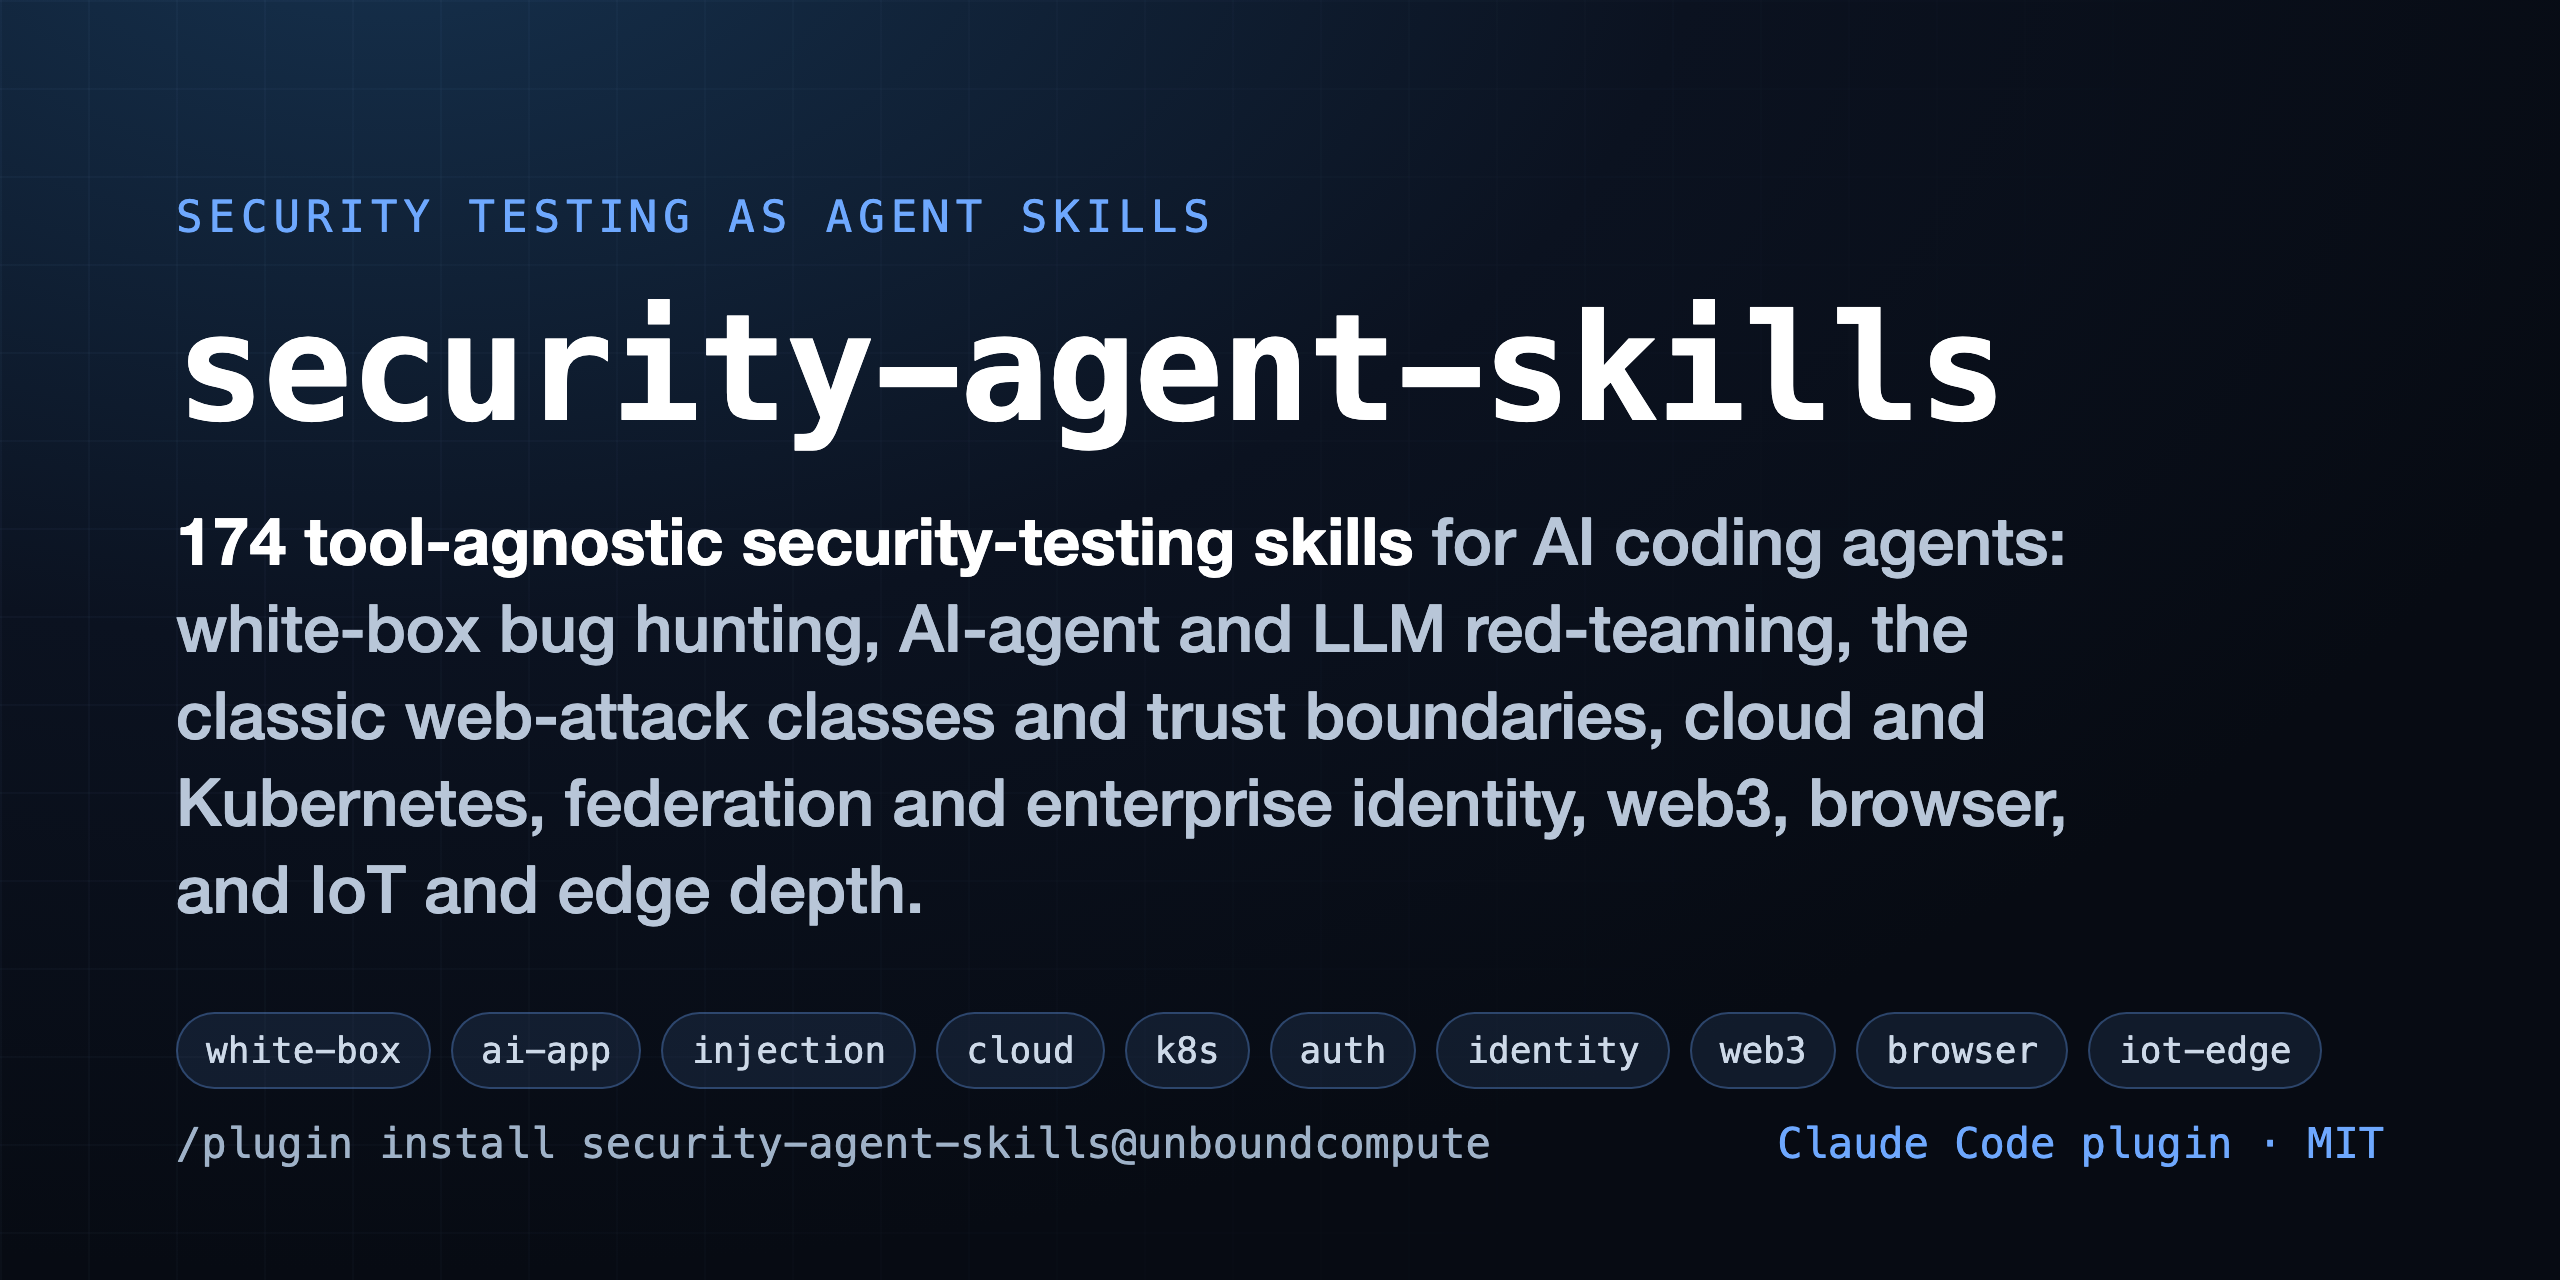
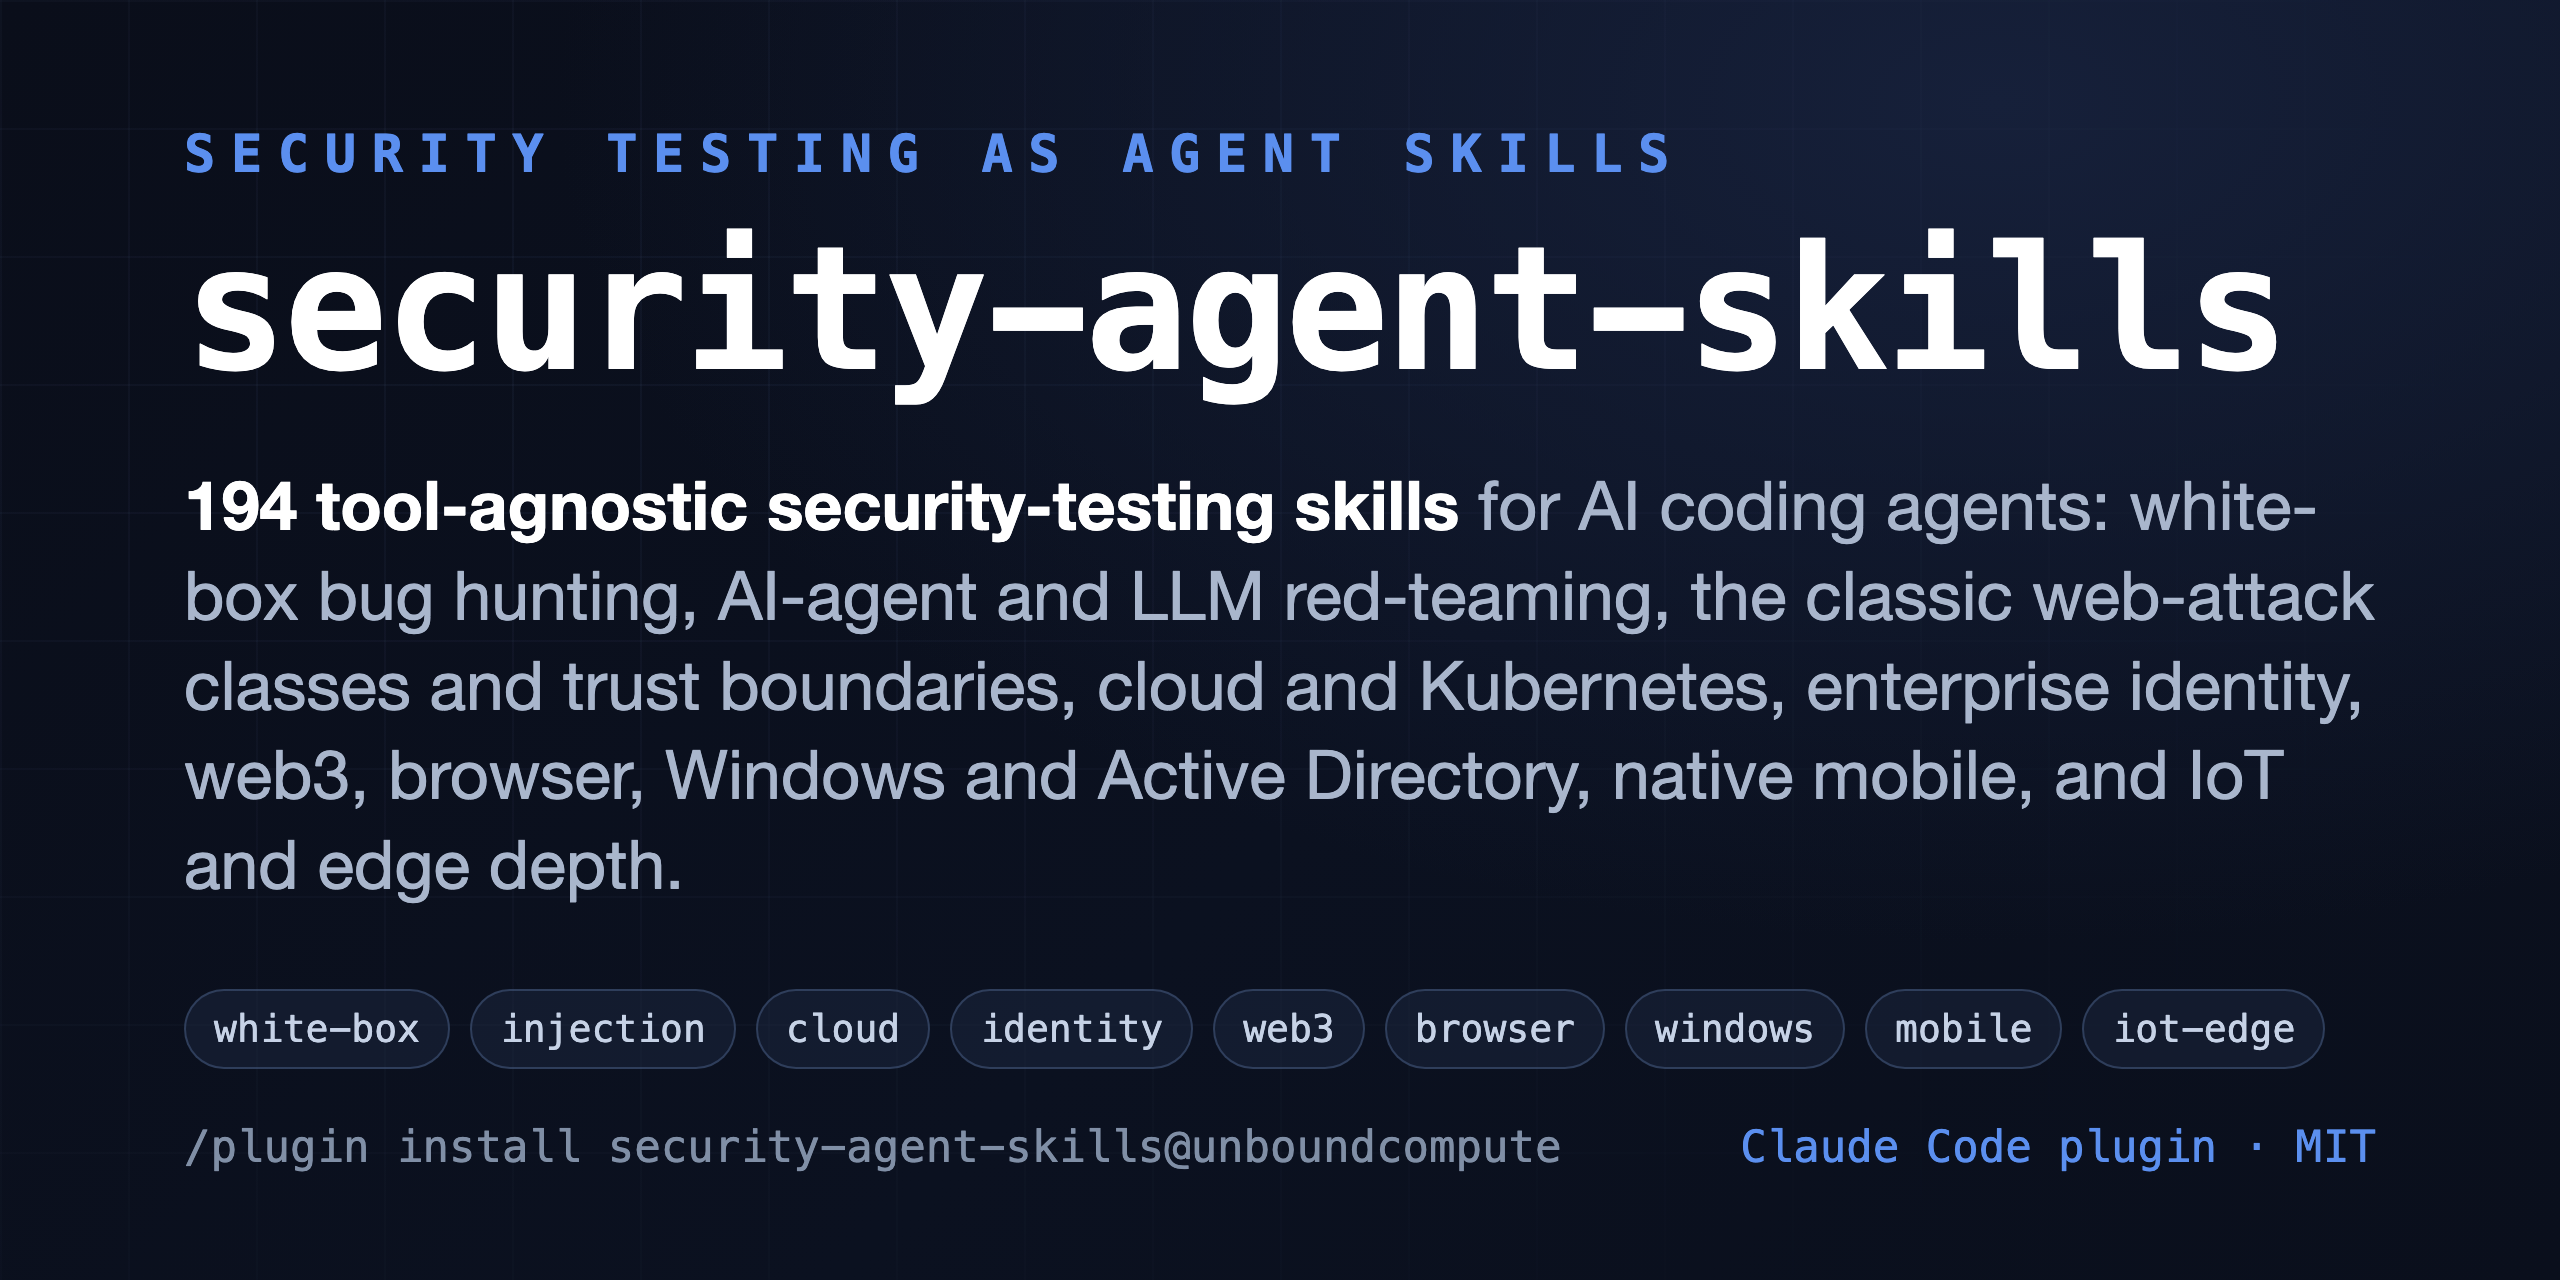
wire v0.15.0: bump to 194 skills, refresh README/CHANGELOG/plugin/marketplace
The catalog grows from 174 to 194 with two new lanes committed in the prior
commit: 10 Windows and Active Directory privilege-escalation and domain
identity skills, and 10 native iOS and Android app-security skills. This
commit wires the surrounding metadata to match.

README: skills badge and hero count 174 -> 194, hero clause extended to name
the Windows/AD and native-mobile coverage, 20 new table rows added under the
windows and mobile lanes, and two roadmap items checked off. CHANGELOG: new
0.15.0 entry describing both lanes in the established false-positive-killer
framing. plugin.json and marketplace.json: version 0.14.0 -> 0.15.0,
descriptions extended with the two new lanes, and 21 new keywords added.
social-preview.png regenerated to read 194 and carry windows and mobile chips.

Content-only change to catalog metadata; the 194 skill directories, the 194
README data rows, and the plugin/marketplace versions all agree, and both
JSON manifests parse.

diff --git a/README.md b/README.md
@@ -1,11 +1,11 @@
 # security-agent-skills
 
 ![license](https://img.shields.io/badge/license-MIT-blue?style=flat-square)
-![skills](https://img.shields.io/badge/skills-174-2ea44f?style=flat-square)
+![skills](https://img.shields.io/badge/skills-194-2ea44f?style=flat-square)
 ![Claude Code plugin](https://img.shields.io/badge/Claude%20Code-plugin-8A63D2?style=flat-square)
 ![method](https://img.shields.io/badge/method-tool--agnostic-orange?style=flat-square)
 
-**174 tool-agnostic security-testing skills for AI coding agents: white-box bug
+**194 tool-agnostic security-testing skills for AI coding agents: white-box bug
 hunting, AI-agent and LLM red-teaming, code-interpreter sandbox and
 model-inference-endpoint abuse, server-side injection and deserialization
 depth across SQL, NoSQL, LDAP, expression-language, and object streams, cloud
@@ -27,7 +27,13 @@ XSS, template and command injection, XXE, XPath, path traversal, formula and
 include injection, HTTP parameter pollution, and CRLF, the web trust-boundary
 classes across open redirect, CSRF, host-header and URL-parsing trust, cache
 deception, server-side rendering and SVG abuse, Unicode canonicalization bypass,
-and postMessage trust, defensive detection and logging, and appsec depth.**
+and postMessage trust, Windows and Active Directory privilege escalation and
+domain identity abuse across services, DLL search order, tokens and privileges,
+ADCS, directory ACLs, NTLM coercion and relay, group policy, and credentials,
+native iOS and Android app security across the keychain and data protection,
+WebView bridges, TLS pinning, biometrics, app groups, app bundles, mobile
+backends, intent redirection, tapjacking, and tamper resistance, defensive
+detection and logging, and appsec depth.**
 
 Agent skills that encode security-testing *methodology*: the reasoning, ordering,
 and adjudication discipline behind real black-box and white-box testing, written
@@ -257,6 +263,26 @@ tools at each step and emitting findings in the shared schema.
 | [hunting-server-side-rendering-and-svg-image-abuse](skills/hunting-server-side-rendering-and-svg-image-abuse) | web-trust | A server-side renderer fetching URLs, reading files, or running embedded script |
 | [hunting-unicode-normalization-and-canonicalization-bypass](skills/hunting-unicode-normalization-and-canonicalization-bypass) | web-trust | A check passing one form that a later transform turns dangerous at the sink |
 | [testing-postmessage-and-web-message-trust](skills/testing-postmessage-and-web-message-trust) | web-trust | A message handler acting without an exact origin and source check |
+| [hunting-windows-service-privilege-escalation](skills/hunting-windows-service-privilege-escalation) | windows | A standard-user write over a service binary, path, or config that SYSTEM then runs |
+| [hunting-windows-dll-hijacking-and-search-order](skills/hunting-windows-dll-hijacking-and-search-order) | windows | A privileged load-by-name resolving from a directory a standard user can write |
+| [auditing-windows-token-and-privilege-abuse](skills/auditing-windows-token-and-privilege-abuse) | windows | A held sensitive privilege or capturable token that lifts a foothold to a higher context |
+| [hunting-adcs-certificate-template-abuse](skills/hunting-adcs-certificate-template-abuse) | windows | A low-privileged enrollment for a certificate that authenticates as a privileged account |
+| [hunting-active-directory-acl-abuse-paths](skills/hunting-active-directory-acl-abuse-paths) | windows | A right over a privileged object that chains into control of the account |
+| [hunting-ntlm-coercion-and-relay](skills/hunting-ntlm-coercion-and-relay) | windows | A coerced authentication relayed to a service that does not bind the channel |
+| [auditing-group-policy-and-sysvol-trust](skills/auditing-group-policy-and-sysvol-trust) | windows | A writable policy, share file, or link that runs on every machine in scope |
+| [hunting-windows-credential-material-exposure](skills/hunting-windows-credential-material-exposure) | windows | A credential store or process readable by a principal below the intended one |
+| [auditing-windows-uac-and-integrity-boundaries](skills/auditing-windows-uac-and-integrity-boundaries) | windows | A medium-integrity foothold reaching a high-integrity context without genuine consent |
+| [auditing-windows-named-pipe-and-rpc-exposure](skills/auditing-windows-named-pipe-and-rpc-exposure) | windows | A reachable local interface performing a privileged action without authorizing the caller |
+| [hunting-ios-keychain-and-data-protection-gaps](skills/hunting-ios-keychain-and-data-protection-gaps) | mobile | A secret stored under a class readable while locked, in a backup, or after migration |
+| [auditing-mobile-webview-bridge-exposure](skills/auditing-mobile-webview-bridge-exposure) | mobile | Untrusted web content reaching a native bridge that acts with the app's privileges |
+| [hunting-mobile-tls-pinning-and-trust-gaps](skills/hunting-mobile-tls-pinning-and-trust-gaps) | mobile | A sensitive connection an intercepting network position can read or alter |
+| [auditing-mobile-biometric-and-local-auth-bypass](skills/auditing-mobile-biometric-and-local-auth-bypass) | mobile | A local-auth gate trusting a result rather than a key the authentication releases |
+| [auditing-ios-app-group-and-pasteboard-exposure](skills/auditing-ios-app-group-and-pasteboard-exposure) | mobile | A secret on a shared surface whose audience exceeds the app's own boundary |
+| [hunting-hybrid-app-bundle-and-config-exposure](skills/hunting-hybrid-app-bundle-and-config-exposure) | mobile | Live secrets, private endpoints, or privileged flags shipped inside the app bundle |
+| [auditing-mobile-backend-and-firebase-exposure](skills/auditing-mobile-backend-and-firebase-exposure) | mobile | A backend that trusts the app to enforce access and serves any direct client |
+| [auditing-android-intent-redirection-and-pendingintent](skills/auditing-android-intent-redirection-and-pendingintent) | mobile | A privileged component launching or sending an intent an untrusted caller steers |
+| [hunting-mobile-tapjacking-and-overlay-abuse](skills/hunting-mobile-tapjacking-and-overlay-abuse) | mobile | A sensitive screen approving a tap it cannot confirm the user saw or made |
+| [auditing-mobile-root-jailbreak-and-tamper-resistance](skills/auditing-mobile-root-jailbreak-and-tamper-resistance) | mobile | A security decision resting on a client integrity verdict a controlled device defeats |
 | [writing-vuln-reports](skills/writing-vuln-reports) | reporting | Confirmed finding to a reproducible writeup |
 
 Every finding, from any skill, is emitted in the shared
@@ -376,6 +402,17 @@ on a small target. The method does not depend on which.
       host-header and URL-parsing trust, web cache deception, server-side
       rendering and SVG abuse, Unicode canonicalization bypass, postMessage
       trust, and error-handling information exposure
+- [x] Windows and Active Directory privilege escalation: service, DLL
+      search-order, and named-pipe/RPC abuse, sensitive token and privilege
+      abuse, UAC and integrity boundaries, ADCS certificate-template abuse,
+      directory ACL abuse paths, NTLM coercion and relay, group-policy and
+      SYSVOL trust, and credential-material exposure
+- [x] Native mobile app security: iOS keychain and data-protection gaps,
+      WebView native-bridge exposure, TLS pinning and trust gaps, biometric
+      and local-auth bypass, app-group and pasteboard exposure, app-bundle and
+      config exposure, mobile-backend and Firebase exposure, Android intent
+      redirection and pending intents, tapjacking and overlay abuse, and
+      root/jailbreak and tamper resistance
 
 ## Design
 

diff --git a/CHANGELOG.md b/CHANGELOG.md
@@ -3,6 +3,51 @@
 Notable changes to this skill library. Versions follow the plugin version in
 `.claude-plugin/plugin.json`.
 
+## 0.15.0
+
+A wave across two under-served platform lanes, growing the library from 174 to 194
+skills in one batch of twenty: Windows and Active Directory privilege escalation,
+and native iOS and Android app security. The catalog had deep web, cloud, and
+identity coverage but little for the endpoint and the mobile app, the two places a
+real engagement spends much of its time. Each skill leads with the false-positive
+killer a scanner skips, establishing the intended privilege, protection class, or
+trust before testing the deviation, and ends in a confirm-or-kill worked example
+rather than a pattern match.
+
+The Windows and Active Directory set covers local privilege escalation and domain
+identity abuse. Windows service privilege escalation follows a standard-user write
+over a service binary, path, or configuration that a privileged account then runs;
+DLL hijacking and search order follows a privileged load-by-name resolving from a
+directory a standard user can write; token and privilege abuse treats a held
+sensitive privilege or a capturable token as the ladder to a higher context; UAC
+and integrity boundaries follows a medium-integrity foothold reaching high
+integrity without genuine consent; and named-pipe and RPC exposure follows a
+reachable local interface performing a privileged action without authorizing the
+caller. On the directory side, ADCS certificate-template abuse follows a
+low-privileged enrollment for a certificate that authenticates as a privileged
+account; Active Directory ACL abuse paths chains an object right into control of
+the account; NTLM coercion and relay pairs a coercion trigger with a service that
+does not bind the channel; group-policy and SYSVOL trust follows a writable policy,
+share file, or link that runs on every machine in scope; and credential-material
+exposure follows a credential store or process readable by a principal below the
+intended one.
+
+The native-mobile set covers iOS and Android app security. iOS keychain and
+data-protection gaps follow a secret stored under a class readable while locked, in
+a backup, or after migration; app-group and pasteboard exposure follows a secret on
+a shared surface whose audience exceeds the app boundary. WebView bridge exposure
+follows untrusted web content reaching a native bridge; TLS pinning and trust gaps
+follow a sensitive connection an intercepting network position can read or alter;
+biometric and local-auth bypass follows a gate that trusts a result rather than a
+key the authentication releases; and root/jailbreak and tamper resistance follows a
+security decision resting on a client integrity verdict a controlled device
+defeats. On distribution and inter-app reach, hybrid app-bundle and config exposure
+follows live secrets and private endpoints shipped in the package; mobile-backend
+and Firebase exposure follows a backend that trusts the app to enforce access;
+Android intent redirection and pending intents follows a privileged component
+launching an intent an untrusted caller steers; and tapjacking and overlay abuse
+follows a sensitive screen approving a tap it cannot confirm the user saw.
+
 ## 0.14.0
 
 A wave across the classic web-attack classes, growing the library from 154 to 174
